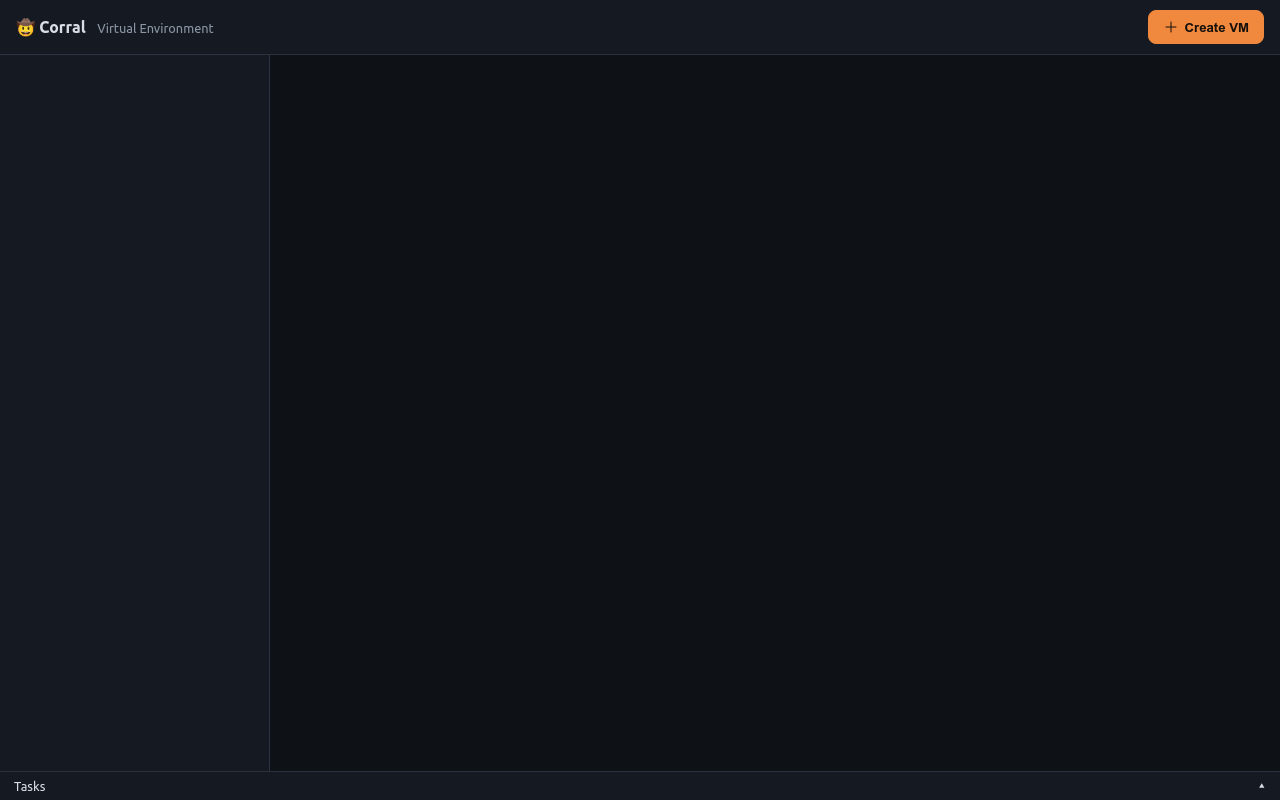
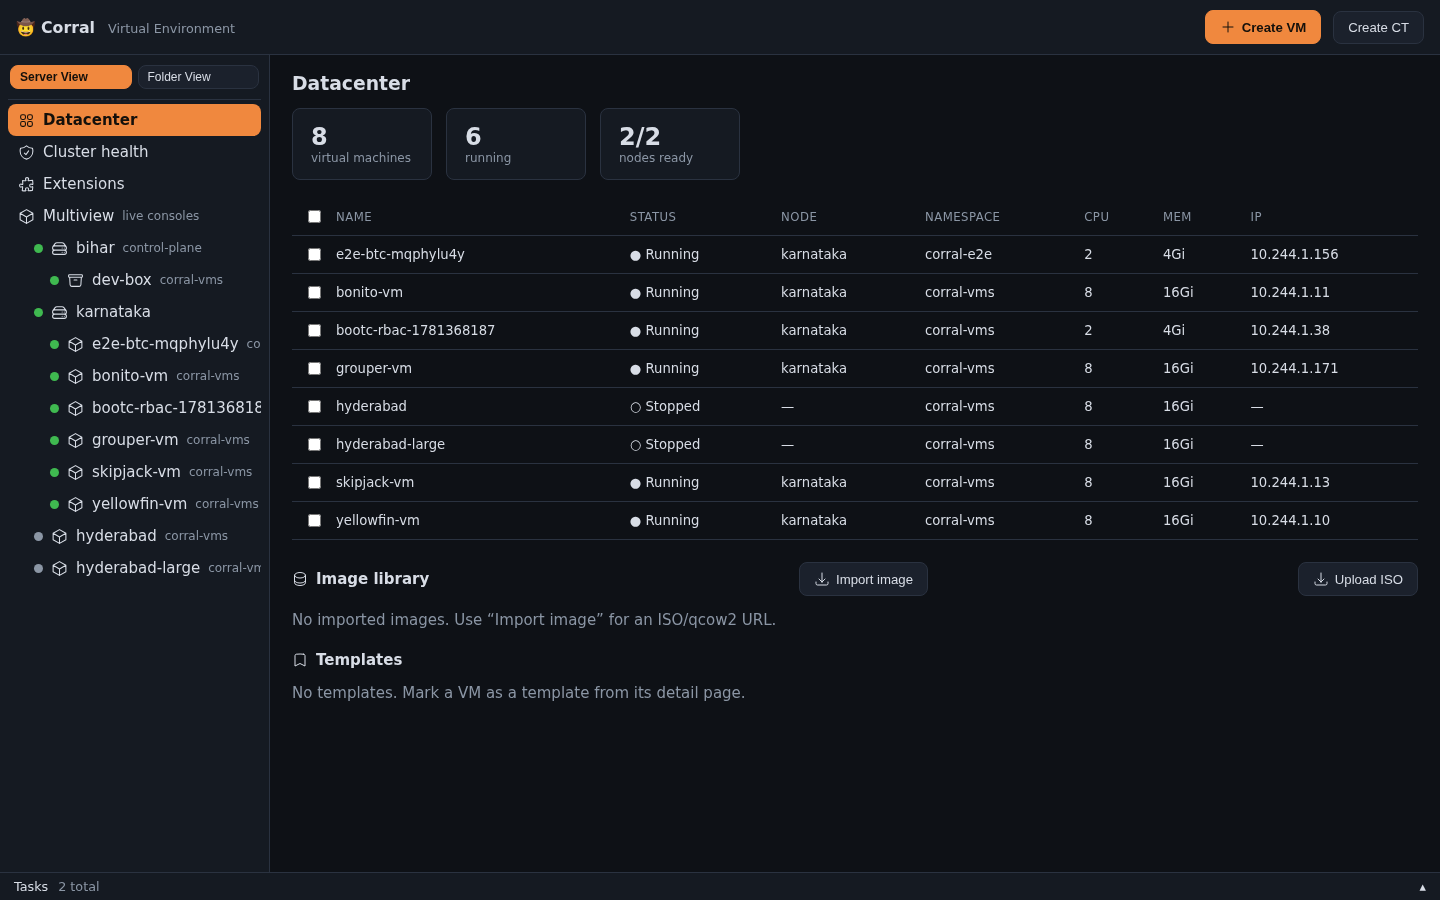
docs(corral): refresh landing page with real screenshots + current feature set
The old screenshots were empty dashboards (no VMs registered at capture
time) — replaced with 8 screenshots against a real, populated cluster:
datacenter tree (VMs + a Container mixed in, matching Proxmox's own single
resource tree per node), Folder View, VM detail, the new boot/options
editor, a live in-browser VNC console on a real bootc desktop VM, a live
xterm.js serial console, a Container (CT) detail view showing the new
distrobox-style persistent rootfs, and cluster health.

Also updates the tagline/lede/feature list/stats, which still described
the original five-verb VM-only tool — now covers Containers, corral
clone, scheduled backups, the doctor page, and the Windows plugin.

diff --git a/src/data/projects.ts b/src/data/projects.ts
@@ -225,9 +225,9 @@ export const PROJECTS: Project[] = [
     emoji: '🤠',
     name: 'Corral',
     status: 'alpha',
-    tagline: 'Herd your VMs into your tailnet — QEMU + KubeVirt VM manager with a Proxmox-style web UI.',
+    tagline: 'Herd your VMs (and containers) into your tailnet — a Proxmox-style manager for QEMU + KubeVirt.',
     lede:
-      'Corral gives you one command for VMs on your laptop and your Kubernetes cluster. Local QEMU/KVM and cluster KubeVirt share the same five verbs — create, start, ssh, viewer, delete. Every VM lands on your Tailscale tailnet automatically. One static Go binary, no daemons.',
+      'Corral gives you one command for VMs on your laptop and your Kubernetes cluster. Local QEMU/KVM and cluster KubeVirt share the same core verbs — create, start, ssh, viewer, delete, clone. Every VM lands on your Tailscale tailnet automatically. Proxmox-style Containers (CT) run alongside VMs as distrobox-style pet pods with a persistent, mutable root filesystem. One static Go binary, no daemons.',
     accent: '#78350f',
     accent2: '#f59e0b',
     repo: 'https://github.com/tuna-os/corral',
@@ -238,19 +238,29 @@ export const PROJECTS: Project[] = [
       {label: 'Binary', value: 'One static Go binary'},
     ],
     features: [
-      {emoji: '🐄', title: 'Same commands everywhere', text: 'create, start, ssh, viewer, delete — identical whether local QEMU or cluster KubeVirt.'},
+      {emoji: '🐄', title: 'Same commands everywhere', text: 'create, start, ssh, viewer, clone, delete — identical whether local QEMU or cluster KubeVirt.'},
+      {emoji: '📦', title: 'Containers (CT) — distrobox on k8s', text: 'Proxmox-style pet pods alongside VMs. Privileged CTs seed a persistent, mutable root filesystem onto their volume and chroot into it — package installs and dotfiles survive Stop/Start, like a real distrobox container.'},
+      {emoji: '🖥️', title: 'Proxmox-style web UI', text: 'Dark dashboard with datacenter→node→VM/CT tree (Server View and Folder View), live status, create wizards, in-browser VNC and serial consoles, a per-VM boot/options editor, and ISO/template upload.'},
       {emoji: '🔑', title: 'SSH that just works', text: 'Public key injected at create time. Corral picks the right path: K8s tunnel for cluster VMs, Tailscale port-forward for local ones.'},
       {emoji: '🌐', title: 'VMs join your tailnet', text: 'Drop a Tailscale auth key and every cloud-init VM registers itself — MagicDNS name and all.'},
-      {emoji: '🖥️', title: 'Proxmox-style web UI', text: 'Dark dashboard with datacenter→node→VM tree, live status, create wizard, one-click live migration, in-browser VNC and serial consoles.'},
-      {emoji: '🧩', title: 'Plugin marketplace', text: 'Extensions ship as plugins — browse, install, and run from CLI or web UI. bootc plugin builds OS disks on-cluster from container images.'},
-      {emoji: '📦', title: 'One static binary', text: 'No daemons, no controllers, no client-side K8s SDK. Drives kubectl/virtctl/systemctl — the tools you already trust.'},
+      {emoji: '🩺', title: 'Cluster doctor', text: 'Checks KubeVirt/CDI health, feature gates, StorageClass capabilities, GPU/PCI passthrough readiness, and flags a slow default StorageClass — with one-click fixes where safe.'},
+      {emoji: '💾', title: 'Scheduled backups', text: 'corral backup schedule runs entirely in-cluster via CronJobs — export, upload to any rclone remote (S3/R2), and prune old backups on a schedule, with no workstation required.'},
+      {emoji: '🧩', title: 'Plugin marketplace', text: 'Extensions ship as plugins — browse, install, and run from CLI or web UI. bootc plugin builds OS disks on-cluster from container images; corral-windows sets up UEFI/TPM/virtio for Windows guests.'},
+      {emoji: '📟', title: 'Point-and-shoot TUI', text: 'Bubble Tea interface listing VMs and Containers side by side — Start/Stop/SSH/Console/Clone/Delete without leaving the terminal.'},
+      {emoji: '🗜️', title: 'One static binary', text: 'No daemons, no controllers, no client-side K8s SDK. Drives kubectl/virtctl/systemctl — the tools you already trust.'},
     ],
     install: [
       {label: 'Build from source', code: 'git clone https://github.com/tuna-os/corral.git\ncd corral\ngo build -o corral .'},
       {label: 'Start the web UI', code: './corral web'},
     ],
     screenshots: [
-      {src: '/img/screenshots/corral-dashboard.png', alt: 'Corral web dashboard — datacenter view'},
+      {src: '/img/screenshots/corral-dashboard.png', alt: 'Corral web dashboard — datacenter view with VMs and a Container (CT) in the Server View tree'},
+      {src: '/img/screenshots/corral-vnc.png', alt: 'Live in-browser VNC console showing a bootc desktop VM'},
+      {src: '/img/screenshots/corral-ct-detail.png', alt: 'Container (CT) detail — distrobox-style persistent rootfs'},
+      {src: '/img/screenshots/corral-options.png', alt: 'Per-VM boot options editor — start-on-boot, firmware, boot order'},
+      {src: '/img/screenshots/corral-terminal.png', alt: 'Live serial console via xterm.js'},
+      {src: '/img/screenshots/corral-folder-view.png', alt: 'Folder View — VMs and Containers grouped by namespace'},
+      {src: '/img/screenshots/corral-doctor.png', alt: 'Cluster health — KubeVirt/CDI/storage readiness checks'},
       {src: '/img/screenshots/corral-dashboard-mobile.png', alt: 'Corral web UI on mobile'},
     ],
   },

diff --git a/docs/corral/index.md b/docs/corral/index.md
@@ -4,9 +4,9 @@ sidebar_position: 1
 
 # 🤠 Corral
 
-**Herd your VMs into your tailnet.**
+**Herd your VMs — and containers — into your tailnet.**
 
-Corral gives you one command for VMs on your laptop and your Kubernetes cluster. Local QEMU/KVM and cluster KubeVirt share the same five verbs — `create`, `start`, `ssh`, `viewer`, `delete`. Every VM lands on your Tailscale tailnet automatically. One static Go binary, no daemons.
+Corral gives you one command for VMs on your laptop and your Kubernetes cluster. Local QEMU/KVM and cluster KubeVirt share the same core verbs — `create`, `start`, `ssh`, `viewer`, `clone`, `delete`. Every VM lands on your Tailscale tailnet automatically. Proxmox-style Containers (CT) run alongside VMs as **distrobox-style pet pods** — a persistent, mutable root filesystem that survives Stop/Start, not just a stateless pod. One static Go binary, no daemons.
 
 ```bash
 corral create web --kubevirt --container-disk quay.io/containerdisks/fedora:42
@@ -15,13 +15,27 @@ corral ssh web        # from this machine, your laptop, or your phone's terminal
 
 ## Why
 
-- **Same five commands everywhere.** Identical whether local QEMU or cluster KubeVirt.
+- **Same commands everywhere.** Identical whether local QEMU or cluster KubeVirt.
+- **Containers (CT) — distrobox on Kubernetes.** Proxmox-style pet pods alongside VMs. A privileged CT seeds a full root filesystem onto its own volume and `chroot`s into it — `apt`/`dnf`/`apk` installs and dotfiles survive Stop/Start, exactly like re-entering a real distrobox container.
 - **SSH that just works.** Public key injected at create time, auto-picks K8s tunnel or Tailscale port-forward.
 - **VMs that join the tailnet themselves.** Drop a Tailscale auth key and every VM registers with MagicDNS.
-- **Plugin marketplace.** Extensions ship as plugins — `corral plugin install bootc`, then build OS disks on-cluster.
-- **Point-and-shoot TUI.** Bubble Tea interface: pick a VM, Start/Stop/SSH/VNC/Delete, toggle published ports.
-- **Proxmox-style web UI.** Dark dashboard: datacenter→node→VM tree, live status, create wizard, live migration, in-browser VNC + serial consoles.
+- **Plugin marketplace.** Extensions ship as plugins — `corral plugin install bootc`, then build OS disks on-cluster; `corral plugin install backup` schedules in-cluster S3/R2 backups via CronJobs; `corral plugin install windows` sets up UEFI/TPM/virtio for Windows guests.
+- **Point-and-shoot TUI.** Bubble Tea interface listing VMs and Containers side by side — Start/Stop/SSH/Console/Clone/Delete, toggle published ports.
+- **Proxmox-style web UI.** Dark dashboard: datacenter→node→VM/CT tree (Server View and Folder View), live status, create wizards, live migration, in-browser VNC + serial consoles, per-VM boot/options editor, ISO/template upload.
+- **Cluster doctor.** One page for KubeVirt/CDI health, feature-gate status, StorageClass capabilities (snapshot/expand/perf), and GPU/PCI passthrough readiness — with safe one-click fixes.
 - **One static Go binary.** No daemons, no controllers, no client-side K8s SDK. Drives the tools you already trust.
+
+## See it in action
+
+![Corral datacenter view with VMs and a Container](/img/screenshots/corral-dashboard.png)
+
+Live in-browser VNC console on a real bootc desktop VM:
+
+![Live VNC console](/img/screenshots/corral-vnc.png)
+
+A privileged Container (CT) — distrobox-style persistent rootfs:
+
+![Container detail view](/img/screenshots/corral-ct-detail.png)
 
 ## Install
 
@@ -41,6 +55,24 @@ By default it binds to `127.0.0.1:8006` (Proxmox's port). To reach it from other
 
 ```bash
 corral web --addr "$(tailscale ip -4):8006"
+```
+
+## Containers (CT)
+
+Proxmox has two workload types — VMs and LXC Containers. Corral's CT is the Kubernetes-native
+take: a pod, not a hypervisor guest, but presented and managed like a Proxmox Container.
+
+- **Unprivileged (default):** a PVC mounts at `/data` only. Fast, safe, matches Kubernetes
+  Pod Security "restricted" defaults. Anything outside `/data` resets on Stop/Start.
+- **Privileged — distrobox on Kubernetes:** on first boot, the CT seeds its volume with a
+  full copy of the image's own root filesystem, then `chroot`s into it. The volume *is* the
+  rootfs from then on — `apt`/`dnf`/`apk` installs, dotfiles, anything under `/` survives
+  Stop/Start. Needs a real OS image (debian/ubuntu/fedora — has `chroot` + coreutils), not
+  alpine/busybox.
+
+```bash
+corral ct create devbox --image docker.io/library/debian:bookworm --privileged
+corral ct console devbox   # or open the Terminal tab in the web UI / TUI
 ```
 
 ## KubeVirt feature support